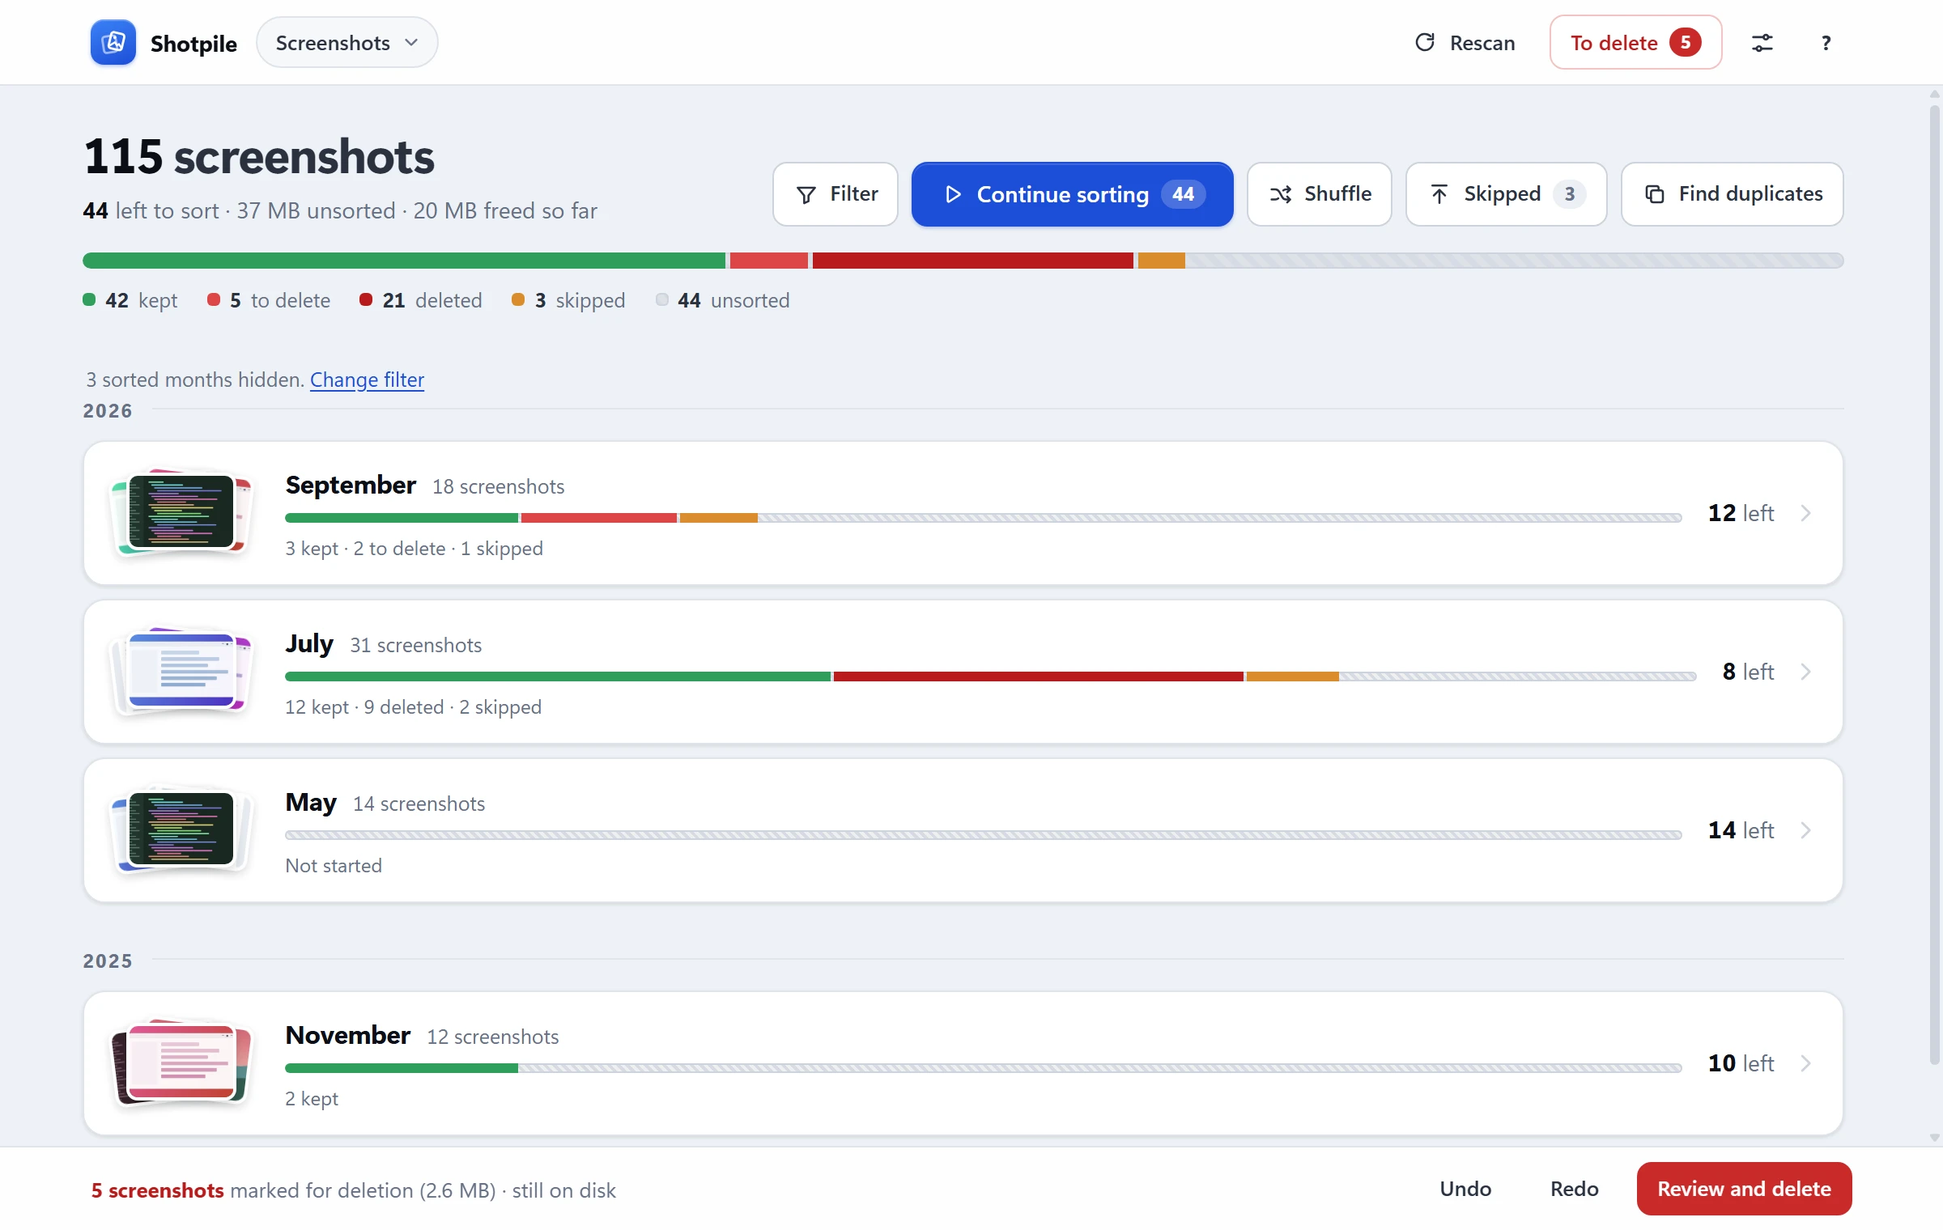
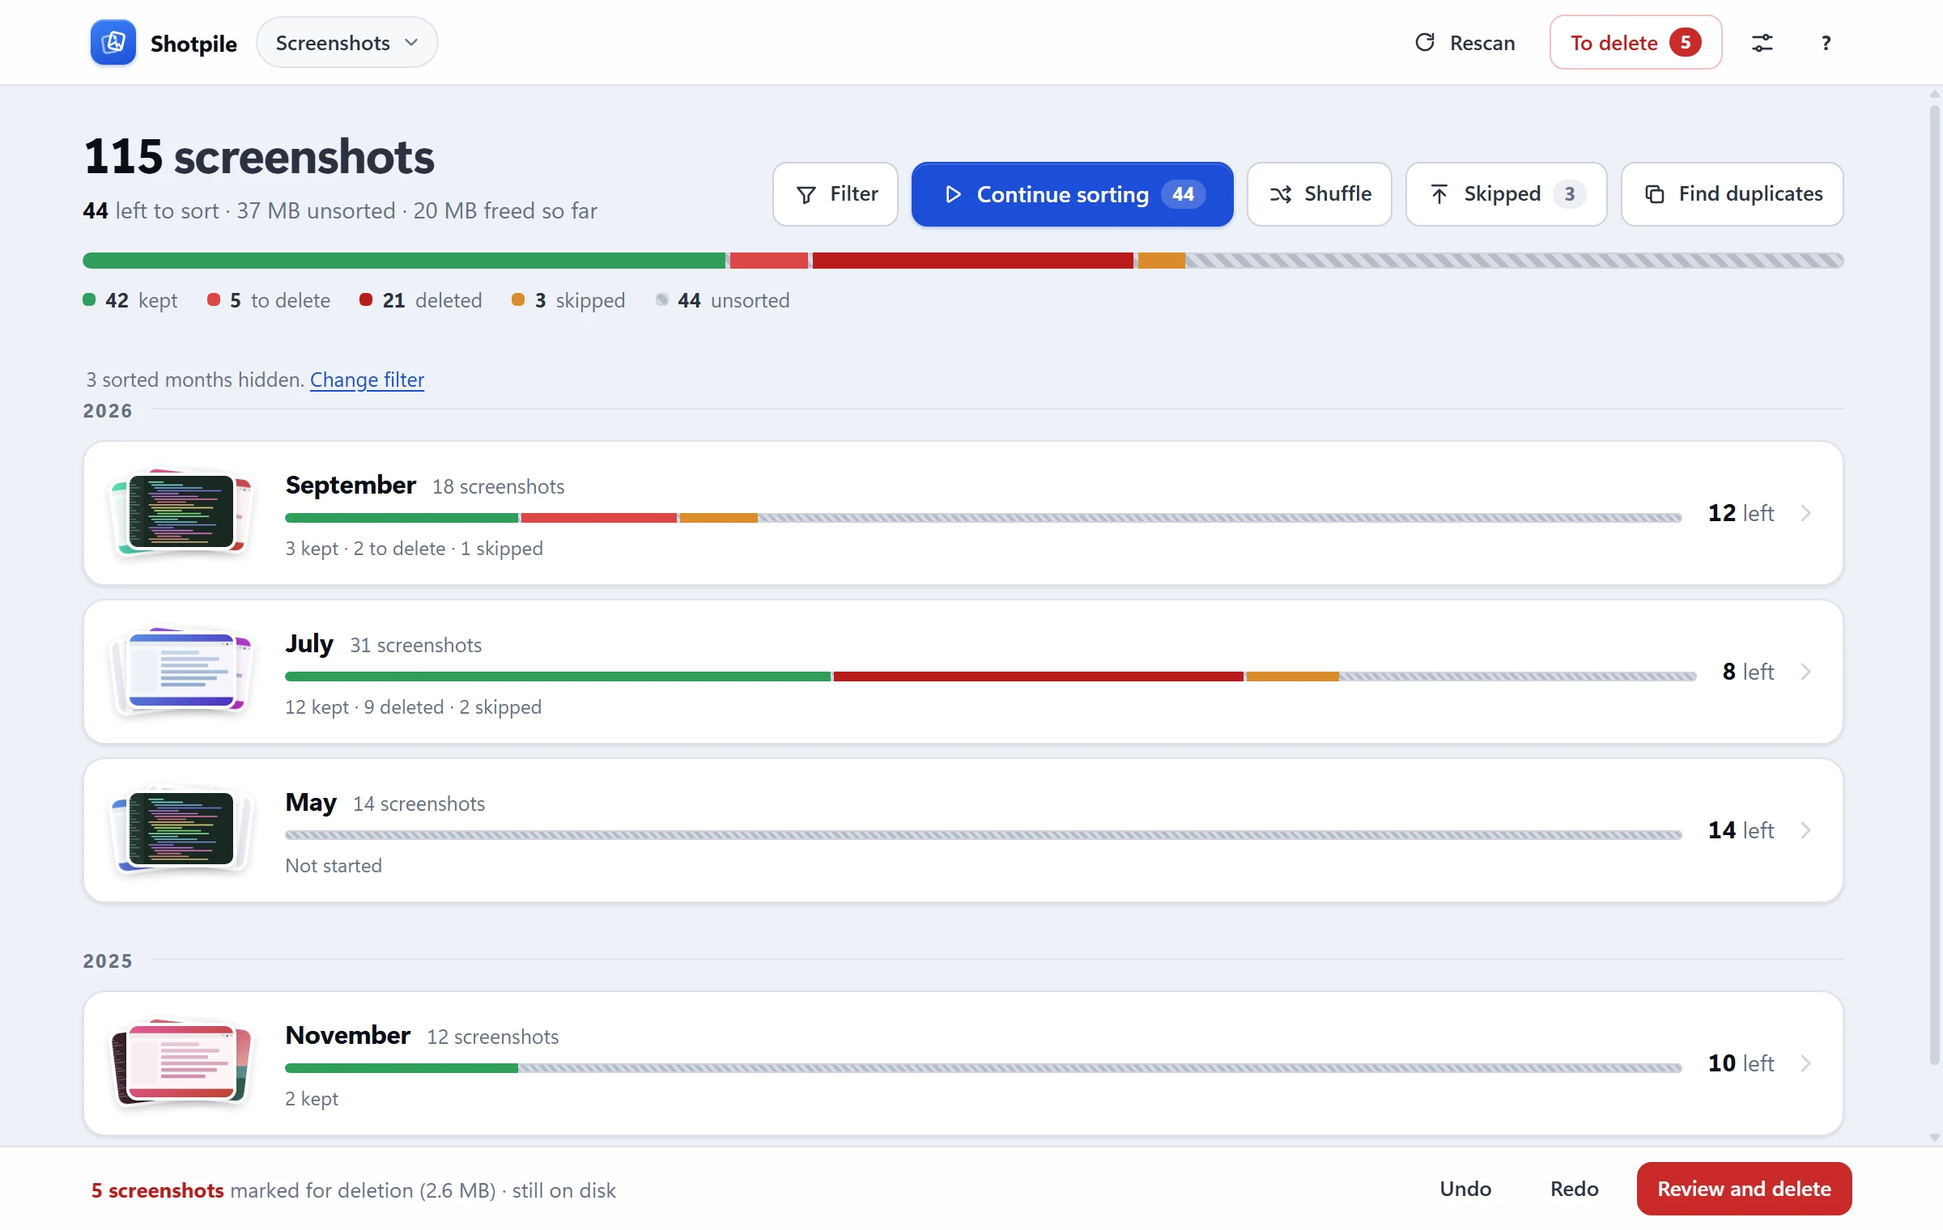
Polish pass: visible month-bar stripes, Escape leaves a review, whole-frame filmstrip
The stripe fix is the real one: --track-line was a translucent gradient
stop, and a gradient composites over what is behind the element rather
than stop over stop, so the stripe was a wash of the page behind the bar
and no alpha increase could make it read at 6px. It is now an opaque
colour mixed out of --seg-track. segbarStripes() resolves both tokens
through a throwaway element instead of compositing them itself, which is
how the old probe reported a healthy step for a stripe that never
painted, and the suite now asserts the stripe is opaque.

Also: Escape leaves a review (to the pile when the scope is staged),
the filmstrip thumbnails are object-fit: contain over --letterbox, and
the collapse toggle moved from the stage into the review header.

Changed region(s): [[0.625, 0.1855, 0.9375, 0.2164]]

diff --git a/src/app.js b/src/app.js
@@ -379,6 +379,16 @@ function openStaged() {
   render();
 }
 
+/**
+ * Leaves the review: back to the pile when that is where it came from, the
+ * library otherwise. Shared by the summary's Back button and Escape, so the two
+ * can never disagree about where "back" is.
+ */
+function leaveReview() {
+  if (state.scope?.scope === "staged") openStaged();
+  else backToMonths();
+}
+
 // -------------------------------------------------------------------- render
 
 function render() {
@@ -697,7 +707,7 @@ function renderReview() {
   state.pan = null;
   if (!state.card) return renderFinale();
 
-  const stage = h("div", { class: "stage", id: "stage" }, buildDeck(), stageToggle());
+  const stage = h("div", { class: "stage", id: "stage" }, buildDeck());
   const review = h("div", {
     class: `review${prefs.get().hideActions ? " no-actions" : ""}`,
     dataset: { scope: state.scope?.scope || "" },
@@ -722,13 +732,14 @@ function renderReview() {
 }
 
 /**
- * The toggle that hides the Delete/Skip/Keep row. It sits on the stage rather
- * than in the row, so it stays clickable once the row is gone.
+ * The toggle that hides the Delete/Skip/Keep row. It sits in the review head,
+ * with the rest of the chrome, so it reads as one of the header's buttons and
+ * not as something floating on the photo.
  */
 function stageToggle() {
   const hidden = prefs.get().hideActions;
-  const btn = h("button", {
-    class: "stage-toggle",
+  return h("button", {
+    class: "btn ghost icon",
     type: "button",
     id: "stage-toggle",
     title: hidden ? "Show the sorting buttons" : "Hide the sorting buttons and give the filmstrip the space",
@@ -736,7 +747,6 @@ function stageToggle() {
     "aria-pressed": String(hidden),
     onclick: () => setActionsHidden(!document.querySelector(".review")?.classList.contains("no-actions")),
   }, icon("chevron-up", { size: 16 }));
-  return btn;
 }
 
 function setActionsHidden(hidden) {
@@ -778,6 +788,7 @@ function reviewHead() {
       chip(ACTION.KEEP, "check", c.keep, "Kept in this pass"),
       chip(ACTION.DELETE, "trash", c.delete, "Marked for deletion in this pass"),
       chip(ACTION.SKIP, "skip", c.skip, "Skipped in this pass")),
+    stageToggle(),
     h("div", { class: "review-bar", "aria-hidden": "true" }, h("i", { id: "review-bar" })));
 }
 
@@ -1700,7 +1711,7 @@ function renderFinale() {
     actions.push(h("button", { class: `btn ${next ? "" : "primary lg"}`.trim(), onclick: openStaged },
       icon("trash", { size: 16 }), `Review ${countOf(staged, "file")} to delete`));
   }
-  actions.push(h("button", { class: `btn${actions.length ? "" : " primary lg"}`, id: "fin-back", onclick: reviewedPile ? openStaged : backToMonths },
+  actions.push(h("button", { class: `btn${actions.length ? "" : " primary lg"}`, id: "fin-back", onclick: leaveReview },
     reviewedPile ? "Back to the pile" : "Back to the library"));
 
   el.view.replaceChildren(h("div", { class: "page narrow" },
@@ -2565,12 +2576,14 @@ function showShortcuts() {
         row(["Space"], "Open full screen"),
         row(["+", "−"], "Zoom the card"),
         row(["0"], "Back to 100%"),
-        row(["Esc"], "Close full screen")),
+        row(["Esc"], "Close full screen"),
+        row(["Esc"], "Leave the review, back to where it started")),
       group("Window",
         row(["Ctrl", "+"], "Zoom the app in"),
         row(["Ctrl", "−"], "Zoom the app out"),
         row(["Ctrl", "0"], "Reset the app zoom"),
-        row(["Ctrl", ","], "Options")),
+        row(["Ctrl", ","], "Options"),
+        row(["F11"], "Full screen the window")),
       group("Troubleshooting",
         row(["F12"], "Developer tools"),
         row(["Ctrl", "Shift", "L"], "Show the log")),
@@ -2615,6 +2628,15 @@ document.addEventListener("keydown", (e) => {
   }
   const t = e.target;
   if (t && (t.isContentEditable || /^(input|textarea|select)$/i.test(t.tagName || ""))) return;
+
+  // Escape leaves a review the same way the Back button does: back to the pile
+  // for the staged review, the library otherwise. Dialogs and the viewer above
+  // have already taken their own Escape, and a text field keeps its own.
+  if (e.key === "Escape" && state.view === "review") {
+    e.preventDefault();
+    if (!e.repeat) leaveReview();
+    return;
+  }
 
   // Resolve the key through the binding table once. DEFAULT_KEYS covers the
   // built-in shortcuts, so a rebind in Options replaces the default and is

diff --git a/tests/probes.js b/tests/probes.js
@@ -147,6 +147,10 @@
       return {
         hidden: review.classList.contains("no-actions"),
         pressed: btn.getAttribute("aria-pressed"),
+        // The toggle belongs to the review head, not the photo it collapses
+        // below; floating over the stage is what it used to do.
+        inHead: !!btn.closest(".review-head"),
+        onStage: !!btn.closest(".stage"),
         visibility: s.visibility,
         rowH: Math.round(actions.getBoundingClientRect().height),
         stripH: Math.round(strip.getBoundingClientRect().height),
@@ -174,8 +178,10 @@
       const n = $(".segbar");
       return n ? getComputedStyle(n).backgroundImage : null;
     },
-    // The stripe period of every bar, big and small, by the size it renders at.
-    // The month bars are 6px and need a finer period than the 10px overview.
+    // The stripe period of every bar, big and small, by the size it renders at,
+    // and how far apart its two stripe colours read. A period alone proves
+    // nothing: at 6px the old line vanished into the track, so the contrast
+    // step is the part that has to hold.
     segbarStripes: () => {
       // A computed gradient reads "repeating-linear-gradient(45deg, A 0px, A 2px,
       // B 2px, B 4px)", so the period is the last two lengths.
@@ -183,13 +189,48 @@
         const all = (img || "").match(/(\d+(?:\.\d+)?)px/g) || [];
         return all.length >= 2 ? `${all[all.length - 2].replace("px", "")}/${all[all.length - 1].replace("px", "")}` : null;
       };
+      // The two stripe colours, resolved through a throwaway element instead of
+      // parsed out of the gradient string: color-mix() is substituted at
+      // computed-value time, and this must not assume a translucent stop is
+      // composited over the track. It is not -- a gradient composites over the
+      // page behind the bar -- which is how the old probe reported a healthy
+      // step for a line that painted as flat grey.
+      const resolve = (expr) => {
+        const n = document.createElement("i");
+        n.style.display = "none";
+        n.style.backgroundColor = expr;
+        document.body.appendChild(n);
+        const c = getComputedStyle(n).backgroundColor;
+        n.remove();
+        const nums = (c.match(/[\d.]+/g) || []).map(Number);
+        // color-mix() comes back as color(srgb 0..1), plain colours as rgb(0..255).
+        const isUnit = /^color\(/.test(c);
+        const chan = isUnit ? nums.slice(0, 3).map((v) => Math.round(v * 255)) : nums.slice(0, 3);
+        return { rgb: chan, a: nums.length > 3 ? nums[3] : 1 };
+      };
+      const lum = (c) => 0.2126 * c[0] + 0.7152 * c[1] + 0.0722 * c[2];
       const out = {};
       for (const n of $$(".segbar")) {
         const s = getComputedStyle(n);
         const h = Math.round(n.getBoundingClientRect().height);
-        out[h] = { h, striped: /repeating-linear-gradient/.test(s.backgroundImage), period: period(s.backgroundImage) };
+        const track = resolve("var(--seg-track)");
+        const line = resolve("var(--track-line)");
+        out[h] = {
+          h,
+          striped: /repeating-linear-gradient/.test(s.backgroundImage),
+          period: period(s.backgroundImage),
+          step: Math.round(Math.abs(lum(track.rgb) - lum(line.rgb))),
+          alpha: line.a,
+          track: `rgb(${track.rgb.join(", ")})`,
+          line: `rgb(${line.rgb.join(", ")})`,
+        };
       }
       return out;
+    },
+    // The filmstrip shows whole frames, like the library cards.
+    filmThumbFit: () => {
+      const img = $(".film-thumb img");
+      return img ? getComputedStyle(img).objectFit : null;
     },
     setFilmstripHeight: (h) => {
       const r = $(".review");

diff --git a/src/style.css b/src/style.css
@@ -42,7 +42,11 @@
   --seg-deleted: #b91c1c;
   --seg-skipped: #d98c2b;
   --seg-track: #d5dbe5;
-  --track-line: rgba(13, 18, 24, .07);
+  /* The stripe has to be an opaque colour mixed out of the track. A gradient is
+     composited over the page behind the bar, not stop over stop, so a
+     translucent stop washes toward --bg instead of striping the track: that is
+     why 14% (and 7% before it) read as flat grey at 6px. */
+  --track-line: color-mix(in srgb, var(--seg-track) 84%, #0d1218);
 
   --radius: 12px;
   --shadow: 0 1px 2px rgba(13, 18, 24, .06), 0 1px 3px rgba(13, 18, 24, .05);
@@ -101,7 +105,7 @@
   --seg-deleted: #d23c3c;
   --seg-skipped: #d99433;
   --seg-track: #232c39;
-  --track-line: rgba(255, 255, 255, .07);
+  --track-line: color-mix(in srgb, var(--seg-track) 78%, #ffffff);
 
   --shadow: 0 1px 2px rgba(0, 0, 0, .3);
   --shadow-md: 0 4px 14px rgba(0, 0, 0, .35);
@@ -1029,29 +1033,11 @@ kbd {
   transition: max-height .22s var(--ease), opacity .22s var(--ease), visibility 0s linear .22s;
 }
 
-/* The toggle lives on the stage, not in the row it collapses, so it stays
-   reachable once the row is gone. */
-.stage-toggle {
-  position: absolute;
-  right: 2px;
-  bottom: 2px;
-  z-index: 3;
-  display: inline-flex;
-  align-items: center;
-  justify-content: center;
-  width: 30px;
-  height: 26px;
-  padding: 0;
-  border: 1px solid transparent;
-  border-radius: 8px;
-  background: transparent;
-  color: var(--muted);
-  cursor: pointer;
-  transition: background .12s, color .12s, border-color .12s;
-}
-.stage-toggle:hover { background: var(--surface-3); color: var(--text-2); border-color: var(--line); }
-.stage-toggle .ico { display: inline-flex; transition: rotate .22s var(--ease); }
-.review.no-actions .stage-toggle .ico { rotate: 180deg; }
+/* The toggle that collapses the sorting row sits in the review head, as one of
+   the header's own buttons, so it needs no styling of its own beyond the
+   rotation that says which way the row will move. */
+#stage-toggle .ico { display: inline-flex; transition: rotate .22s var(--ease); }
+.review.no-actions #stage-toggle .ico { rotate: 180deg; }
 
 .act {
   display: inline-flex;
@@ -1173,8 +1159,13 @@ kbd {
   height: 100%;
   border-radius: 7px;
   overflow: hidden;
+  /* A letterboxed shot fills less than the frame, so the frame needs the same
+     backdrop the cards use for it. */
+  background: var(--letterbox);
 }
-.film-thumb img { width: 100%; height: 100%; object-fit: cover; display: block; }
+/* `contain`, like the library cards: the strip is for recognising a shot, so
+   the whole frame has to be there, letterboxed rather than cropped. */
+.film-thumb img { width: 100%; height: 100%; object-fit: contain; display: block; }
 .film-ext { font-size: 9.5px; font-weight: 700; letter-spacing: .05em; color: var(--muted); }
 
 .film-mark {

diff --git a/src/logic.js b/src/logic.js
@@ -509,11 +509,10 @@ export const ACTIONS = {
   ZOOM_IN: { id: "zoomIn", label: "Zoom in", group: "Looking closer" },
   ZOOM_OUT: { id: "zoomOut", label: "Zoom out", group: "Looking closer" },
   ZOOM_RESET: { id: "zoomReset", label: "Reset zoom to 100%", group: "Looking closer" },
-        OPEN_VIEWER: { id: "openViewer", label: "Open full screen", group: "Looking closer" },
-        OPEN_OPTIONS: { id: "openOptions", label: "Options", group: "Window" },
-        FULLSCREEN: { id: "fullscreen", label: "Toggle fullscreen window", group: "Window" },
-        HELP: { id: "help", label: "Keyboard shortcuts", group: "Window" },
-
+  OPEN_VIEWER: { id: "openViewer", label: "Open full screen", group: "Looking closer" },
+  OPEN_OPTIONS: { id: "openOptions", label: "Options", group: "Window" },
+  FULLSCREEN: { id: "fullscreen", label: "Toggle fullscreen window", group: "Window" },
+  HELP: { id: "help", label: "Keyboard shortcuts", group: "Window" },
 };
 
 /** Default key bindings: key -> action id. */
@@ -536,10 +535,9 @@ export const DEFAULT_KEYS = {
   "-": ACTIONS.ZOOM_OUT.id,
   "_": ACTIONS.ZOOM_OUT.id,
   0: ACTIONS.ZOOM_RESET.id,
-        " ": ACTIONS.OPEN_VIEWER.id,
-        F11: ACTIONS.FULLSCREEN.id,
-        "?": ACTIONS.HELP.id,
-
+  " ": ACTIONS.OPEN_VIEWER.id,
+  F11: ACTIONS.FULLSCREEN.id,
+  "?": ACTIONS.HELP.id,
 };
 
 /**

diff --git a/HANDOFF.md b/HANDOFF.md
@@ -149,10 +149,31 @@ hand on Windows. Do not mark one done on the strength of the fake backend.
        visible; it is not earning its place next to the filmstrip. Done, and
        removed outright rather than left dead: the input, `state.filter`,
        `matchesFilename()` and its CSS and tests are gone.
-     - Consistency: the overview progress bar stripes its unsorted track, but the
-       per-month stacked bars do not. Stripe the month bars the same way. Done:
-       the 6px month bars use a 4px stripe period instead of the 8px one, which
-       was flattening into grey at that size.
+      - Consistency: the overview progress bar stripes its unsorted track, but the
+        per-month stacked bars do not. Stripe the month bars the same way. Done,
+        but the first fix was wrong and shipped looking unchanged: the 6px bars
+        got a finer 4px period, which is not why they read as flat grey. The real
+        cause was `--track-line` being a *translucent* gradient stop. A gradient
+        composites over what is behind the element, not stop over stop, so
+        `rgba(255,255,255,.16)` was a wash of the page behind the bar rather than
+        a line across the track, and no amount of raising the alpha helped. It is
+        now an opaque `color-mix` out of `--seg-track`. See the `--track-line`
+        bullet in AGENTS.md, *CSS gotchas*: keep the stop opaque, and note that
+        `segbarStripes()` has to resolve the tokens rather than composite them
+        itself, or the probe passes a stripe that never paints.
+      - F11 did nothing on Windows. WebView2 consumes the key before the page
+        sees it, and Tauri's menu-accelerator route does not work either: the
+        keyboard focus is the WebView2 child window, so `TranslateAcceleratorW`
+        never matches a menu item bound to F11. Done with a `RegisterHotKey` plus
+        a `GWLP_WNDPROC` subclass in `fullscreen_key` (lib.rs), filtered on the
+        foreground window and calling the same `apply_toggle_fullscreen()` the
+        frontend uses. Verified in a real debug build: the window goes
+        1374x882 -> 1536x864 -> 1374x882 on two presses, and the log records both.
+      - Escape now leaves a review (to the pile when the scope is `staged`,
+        otherwise to the library) instead of doing nothing. Repeat events are
+        ignored and dialogs, the viewer and text inputs still take Escape first.
+      - Whole-frame filmstrip thumbnails: `.film-thumb img` is `object-fit:
+        contain` over `--letterbox`, so a tall or wide shot is no longer cropped.
 
 6. **Black flash on the first scroll after a resize.** *Root-caused and fixed in
    code.* Two rounds: `set_window_background` now sets the theme colour on the

diff --git a/AGENTS.md b/AGENTS.md
@@ -93,7 +93,7 @@ is always `db`, then `undo`.
 
 ```powershell
 npm run test:logic                          # 56 frontend logic tests
-npm run test:gui                            # 269 GUI assertions in headless Chrome
+npm run test:gui                            # 280 GUI assertions in headless Chrome
 cd src-tauri; cargo test                    # 78 unit + 4 end-to-end tests
 cd src-tauri; cargo clippy --all-targets -- -D warnings
 cd src-tauri; cargo fmt --check
@@ -186,6 +186,17 @@ library (`seedDemo()` in the fake), which is also what the README pictures show.
   statuses (kept, staged, deleted, skipped), all solid. 1.4.0 striped the
   deleted segment, which read as if it were the unsorted part; do not restripe a
   segment. Change `--track-line` with the theme, like the other tokens.
+- **`--track-line` must stay an opaque colour mixed out of `--seg-track`,** and
+  the gradient stops are what make the stripe. A gradient is composited over
+  what is *behind* the element, not stop over stop, so a translucent stop
+  (`rgba(255,255,255,.16)`) is a wash of the page behind the bar, not a line
+  across the track: 1.4.0 and 1.5.0 both shipped that, and at 6px it read as flat
+  grey no matter how far the alpha was raised. Use
+  `color-mix(in srgb, var(--seg-track) 78%, #fff)`. The `segbarStripes()` probe
+  resolves both tokens through a throwaway element (color-mix() is substituted at
+  computed-value time) and the suite asserts `alpha === 1`: a probe that
+  composites the two stops itself reports a healthy step for a stripe that never
+  paints, which is exactly how this one got through.
 - The native window background is set from JS (`set_window_background`), not just
   `tauri.conf.json`, because WebView2's default is white and flashes through on
   the first scroll when fullscreen. `syncWindowBackground()` in app.js follows

diff --git a/README.md b/README.md
@@ -119,7 +119,8 @@ it, the first start moves its database over and your decisions carry on.
 | `Ctrl` + `+` `-` `0` | Zoom the whole app; `Ctrl+,` opens Options (`Cmd` works for `Ctrl` on macOS) |
 | `Space` | Open the current photo full screen (and close it again) |
 | `+` `-` `0` | Zoom the card in, out, back to 100%. Arrows pan while zoomed. |
-| `Esc` | Close the viewer or a dialog |
+| `Esc` | Close the viewer or a dialog, or leave the review (back to the pile when reviewing a staged pile, otherwise to the library) |
+| `F11` | Full screen |
 | `A` / `D` | Step to the previous / next photo in the review strip |
 | Arrows, `Enter` | Move around the library and open a month |
 | `?` | Keyboard shortcuts (every review key can be rebound in Options) |
@@ -312,10 +313,12 @@ After that:
 
 - A small infographic window for the local statistics.
 
-Done in this pass: the Delete/Skip/Keep row can be collapsed (the chevron on the
-photo's bottom-right corner), giving the filmstrip that height, and the review is
-wider so the strip holds more shots at once. The filename filter is gone, and the
-per-month progress bars now carry the same stripes as the overview bar.
+Done in this pass: the Delete/Skip/Keep row can be collapsed (the chevron in the
+review header), giving the filmstrip that height, and the review is wider so the
+strip holds more shots at once. The filename filter is gone, and the per-month
+progress bars now carry the same stripes as the overview bar. `Escape` leaves a
+review, `F11` goes fullscreen on Windows, and the filmstrip thumbnails show the
+whole frame instead of cropping it.
 - Possible later: a grouped undo for a whole pass and near-duplicate
   detection (only byte-identical files are found today).
 
